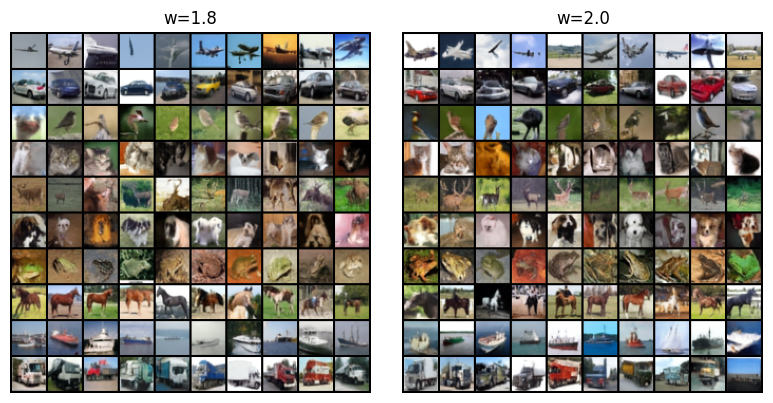
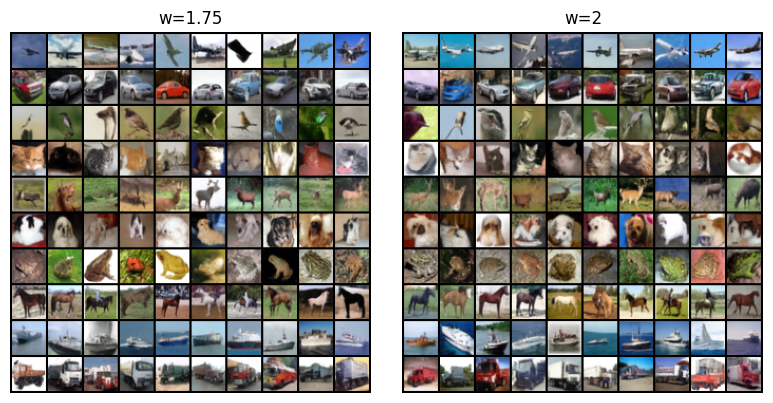
fix: freeze vae parameteers when dit field

diff --git a/models/vae.py b/models/vae.py
@@ -309,13 +309,16 @@ class VAE(nn.Module):
     @torch.no_grad()
     def visualize_samples(
         self,
-        dataloader,
         save_path: Optional[str] = None,
         num_images=10,
         get_new=True,
-        images=None,
+        images =None,
+        dataloader: Optional[DataLoader] = None,
         title: Optional[str] = None,
     ) -> torch.Tensor:
+        if (images is None) == (dataloader is None):
+            raise ValueError('Either images or dataloader argument is required')
+        
         if images is not None:
             x = images.to(next(self.parameters()).device)
             num_images = len(images)

diff --git a/trainers/latent_cfg_trainer.py b/trainers/latent_cfg_trainer.py
@@ -18,7 +18,6 @@ class LatentCFGTrainer(Trainer):
     def __init__(
         self,
         dataloader: DataLoader,
-        vae: VAE,
         path: GaussianConditionalProbabilityPath,
         latent_stats: tuple[float, float] = (0.0, 1.0),
         null_ratio: float = 0.1,
@@ -26,15 +25,10 @@ class LatentCFGTrainer(Trainer):
         assert null_ratio > 0 and null_ratio < 1
         super().__init__(dataloader=dataloader, using_ema_model=True)
 
-        self.vae = vae
         self.path = path
 
         self.latent_mean, self.latent_std = latent_stats
         self.null_ratio = null_ratio
-
-        self.vae.eval()
-        for p in self.vae.parameters():
-            p.requires_grad_(False)
 
     def get_train_loss(self, batch):
         z, y = batch

diff --git a/trainers/trainer.py b/trainers/trainer.py
@@ -100,7 +100,10 @@ class Trainer(ABC):
         return os.path.join(weights_dir, f"{checkpoint_name}.pt")
 
     def get_optimizer(self, lr: float):
-        return torch.optim.AdamW(self.model.parameters(), lr=lr, weight_decay=1e-4)
+        return torch.optim.AdamW(
+            (p for p in self.model.parameters() if p.requires_grad),
+            lr=lr, weight_decay=1e-4
+        )
 
     def random_name(self) -> str:
         adjectives = [

diff --git a/models/dit.py b/models/dit.py
@@ -224,6 +224,9 @@ class DiffusionTransformerFlowModel(ConditionalVectorField):
     ):
         super().__init__()
         self.vae = vae
+        self.vae.eval()
+        for p in self.vae.parameters():
+            p.requires_grad_(False)
 
         # 0. Construct time_embedder and y_embedder
         self.time_embedder = FourierEncoder(dim)

diff --git a/trainers/vae_trainer.py b/trainers/vae_trainer.py
@@ -10,11 +10,9 @@ class VAETrainer(Trainer):
     def __init__(
         self,
         dataloader: DataLoader,
-        reverse_transform=None,
         **kwargs,
     ):
         super().__init__(dataloader=dataloader)
-        self.reverse_transform = reverse_transform
 
     def get_train_loss(self, batch):
         x, y = batch